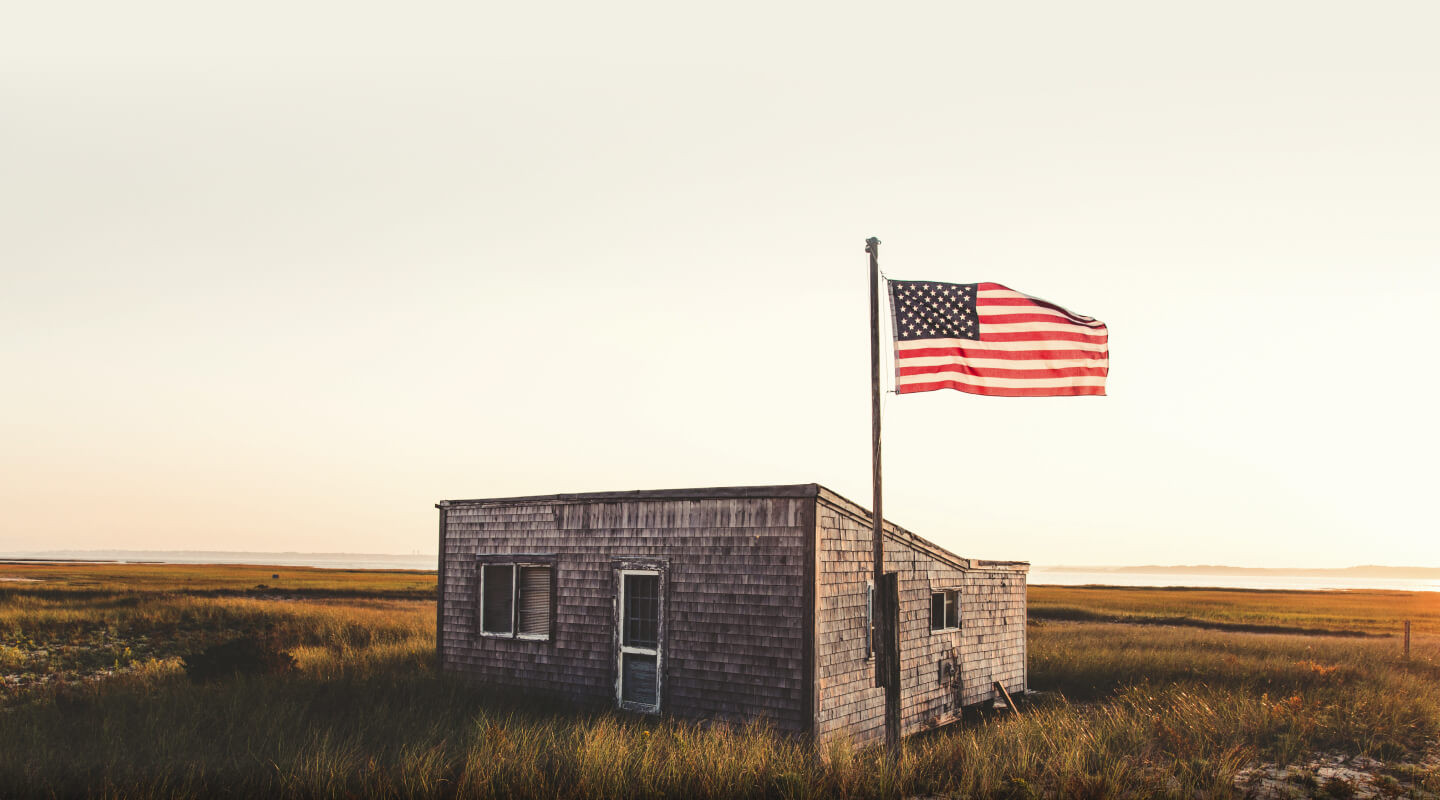
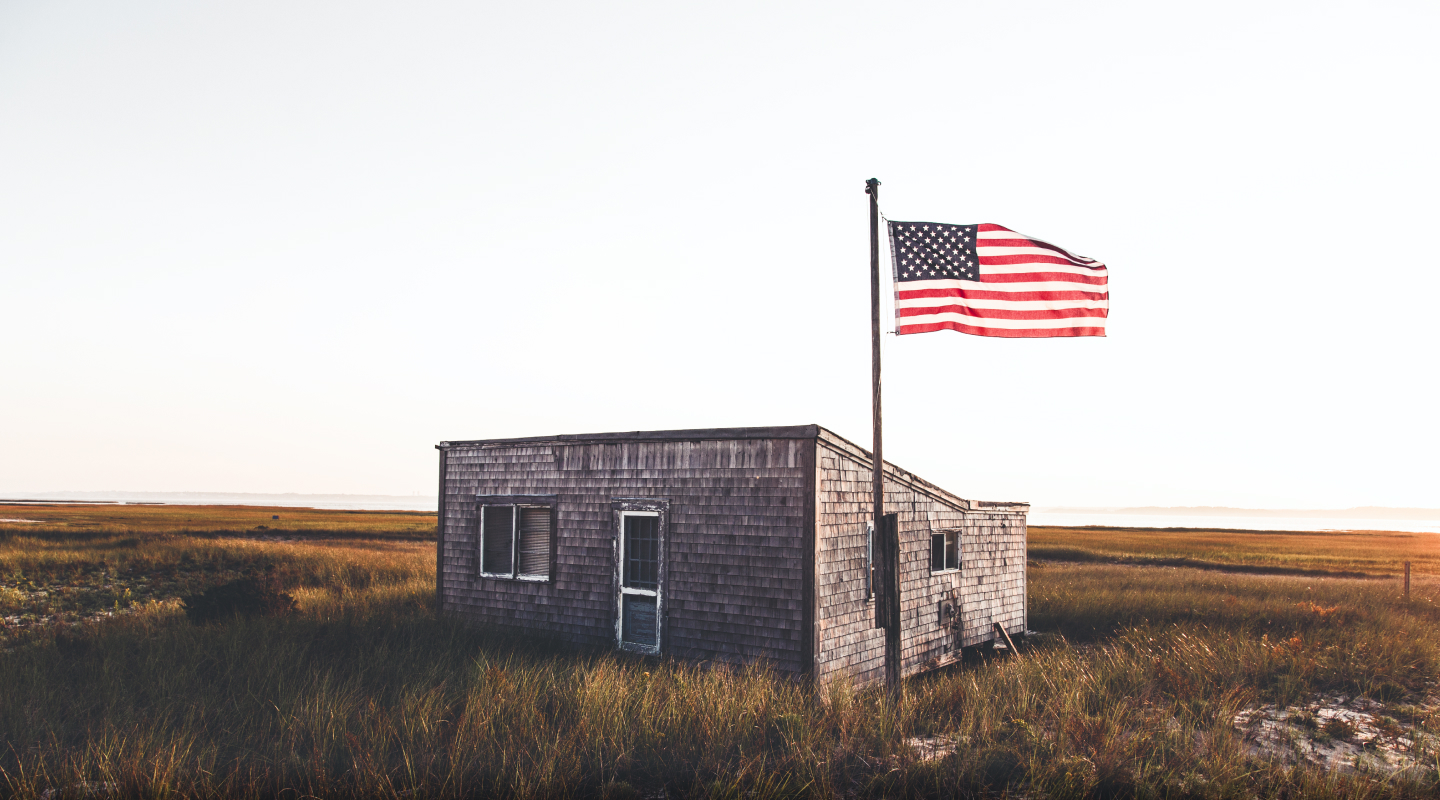
shed is bluer now

diff --git a/src/assets/scss/core/_misc.scss b/src/assets/scss/core/_misc.scss
@@ -338,10 +338,10 @@ form {
 }
 
 #top{
-  background: linear-gradient(180deg, #F2EFE4 8.06%, rgba(242, 239, 228, 0) 24.69%, rgba(255, 255, 255, 0) 24.69%), linear-gradient(180deg, rgba(0, 0, 0, 0) 95.14%, rgba(0, 0, 0, 0.41) 100%),url("../../assets/img/shed.jpg");
+  background: linear-gradient(180deg, rgba(0, 0, 0, 0) 95.14%, rgba(0, 0, 0, 0.41) 100%),url("../../assets/img/shed.jpg");
   background-repeat: no-repeat;
   background-size: cover;
-  background-position: center center;
+  background-position: center top;
   min-height: 800px;
   background-blend-mode: normal;
 }
@@ -494,6 +494,49 @@ form {
   header button{
     margin: 0px;
   }
+
+  }
+
+@media screen and (min-width: 960px) and (max-width: 1200px){
+  #top {
+    background: linear-gradient(90deg, rgba(255, 255, 255, 0.8), rgba(255, 255, 255, 0.8)), linear-gradient(180deg, rgba(0, 0, 0, 0) 95.14%, rgba(0, 0, 0, 0.41) 100%),url("../../assets/img/shed.jpg");
+    background-repeat: no-repeat;
+    background-size: cover;
+    background-position: center top;
+    min-height: 800px;
+    background-blend-mode: normal;
+  }
+}
+
+
+@media screen and (min-width: 700px) and (max-width: 960px){
+  #top{
+    background: linear-gradient(180deg, #FAFDFE 50%, rgba(250, 253, 254, 0) 60%), linear-gradient(180deg, rgba(0, 0, 0, 0) 95.14%, rgba(0, 0, 0, 0.41) 100%),url("../../assets/img/shed.jpg"), #FAFDFE;
+    background-repeat: no-repeat;
+    background-size:contain;
+    background-position: bottom center;
+    background-blend-mode: normal;
+}
+}
+
+@media screen and (min-width: 401px) and (max-width: 699px){
+  #top{
+    background: linear-gradient(180deg, #FAFDFE 65%, rgba(250, 253, 254, 0) 80%), linear-gradient(180deg, rgba(0, 0, 0, 0) 95.14%, rgba(0, 0, 0, 0.41) 100%),url("../../assets/img/shed.jpg"), #FAFDFE;
+    background-repeat: no-repeat;
+    background-size:contain;
+    background-position: bottom center;
+    background-blend-mode: normal;
+}
+}
+
+@media screen and (min-width: 1441px) {
+  #top{
+    background: linear-gradient(90deg, rgba(255, 255, 255, 0.5), rgba(255, 255, 255, 0.5)), linear-gradient(180deg, rgba(0, 0, 0, 0) 95.14%, rgba(0, 0, 0, 0.41) 100%),url("../../assets/img/shed.jpg"), #FAFDFE;
+    background-repeat: no-repeat;
+    background-size:cover;
+    background-position: center center;
+    background-blend-mode: normal;
+}
 }
 
 @media screen and (max-width: 500px) {
@@ -524,13 +567,7 @@ form {
     align-items: center;
   }
 
-  #top{
-    background: linear-gradient(180deg, #F7F4E9 9.88%, rgba(247, 244, 233, 0) 22.38%), linear-gradient(180deg, rgba(0, 0, 0, 0) 95.14%, rgba(0, 0, 0, 0.41) 100%),url("../../assets/img/shed.jpg"), #F2EFE4;
-    background-repeat: no-repeat;
-    background-size:contain;
-    background-position: bottom center;
-    background-blend-mode: normal;
-  }
+
 
 
   header button{
@@ -583,6 +620,14 @@ div[role=document] a[role=button]{
 
   #top h4{
     font-size: 18px;
+  }
+
+  #top{
+    background: linear-gradient(180deg, #FAFDFE 600px, rgba(250, 253, 254, 0) 700px), linear-gradient(180deg, rgba(0, 0, 0, 0) 95.14%, rgba(0, 0, 0, 0.41) 100%),url("../../assets/img/shed.jpg"), #FAFDFE;
+    background-repeat: no-repeat;
+    background-size:contain;
+    background-position: bottom center;
+    background-blend-mode: normal;
   }
 
 }

diff --git a/src/pages/LandingPage/LandingPage.jsx b/src/pages/LandingPage/LandingPage.jsx
@@ -48,9 +48,9 @@ class LandingPage extends React.Component {
         />
           <div className={classes.container}>
             <GridContainer>
-              <GridItem xs={12} sm={12} md={12} lg={8} xl={8}>
+              <GridItem xs={12} sm={12} md={8} lg={8} xl={9}>
                 <h1 className={classes.title}>Cutting-edge artificial intelligence for critical national security problems.</h1>
-                <GridItem xs={12} sm={12} md = {7} lg = {8} xl={8} id="top-details">
+                <GridItem xs={12} sm={12} md = {12} lg = {11} xl={11} id="top-details">
                 <h4>
                   <b>VANNEVAR LABS</b> builds artificial intelligence (AI) and natural language processing (NLP) tools to power a safer America. Our mission brings together experts from Washington to Silicon Valley with decades of success solving our country’s biggest challenges.
                 </h4>
